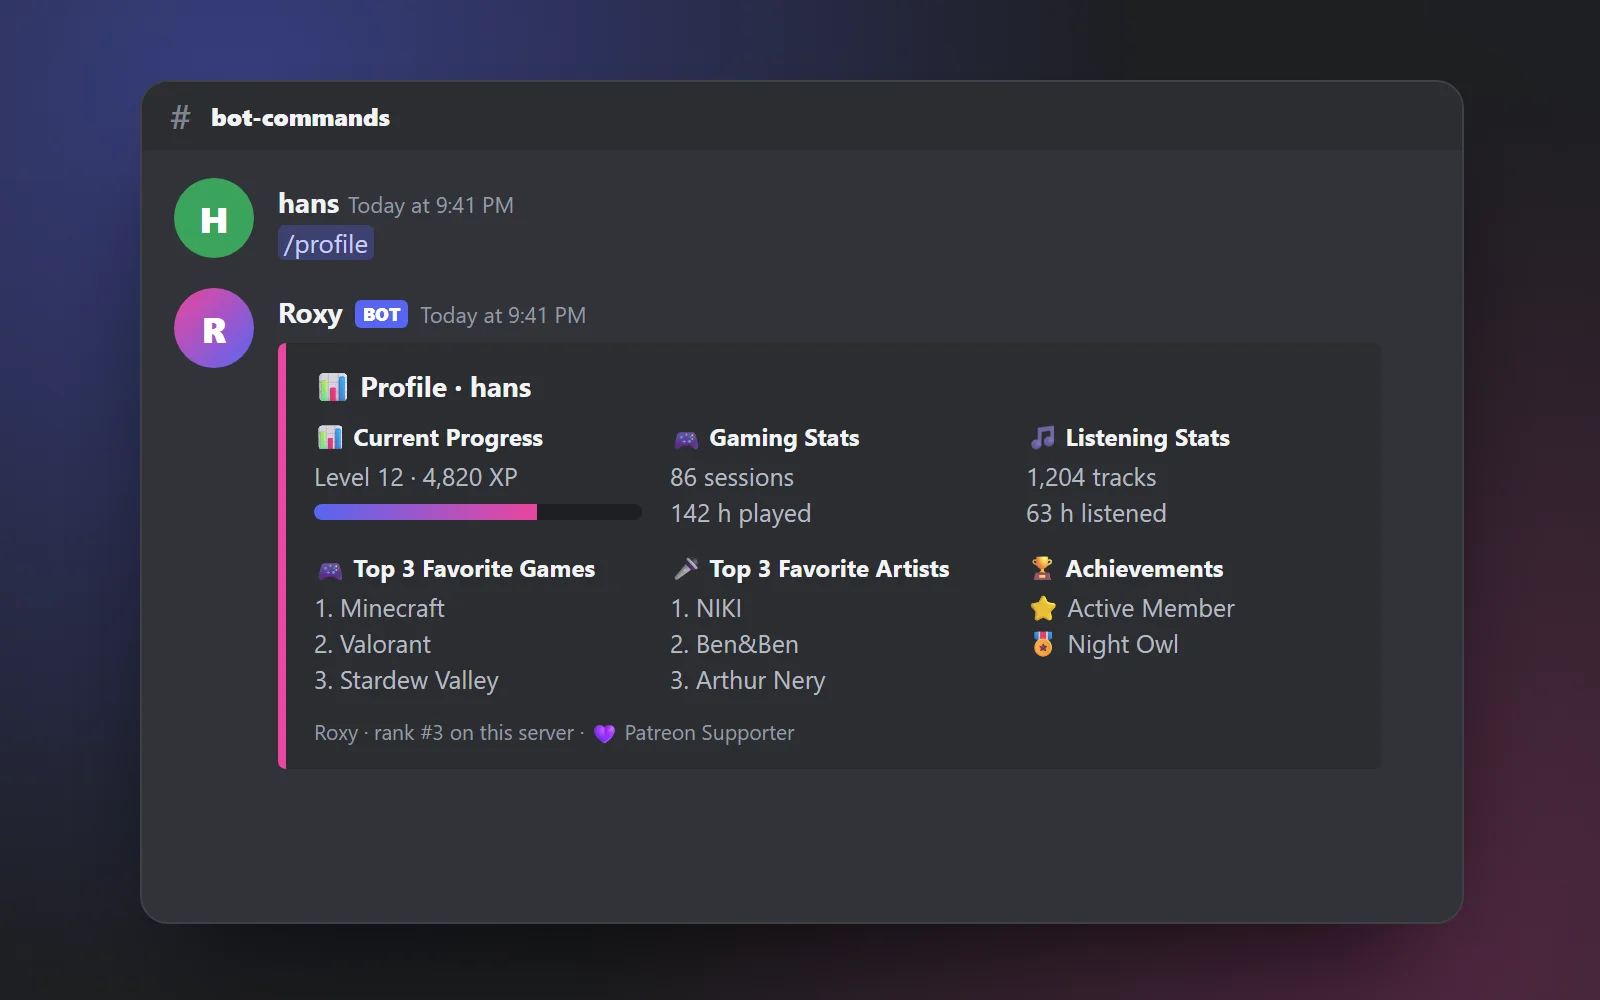
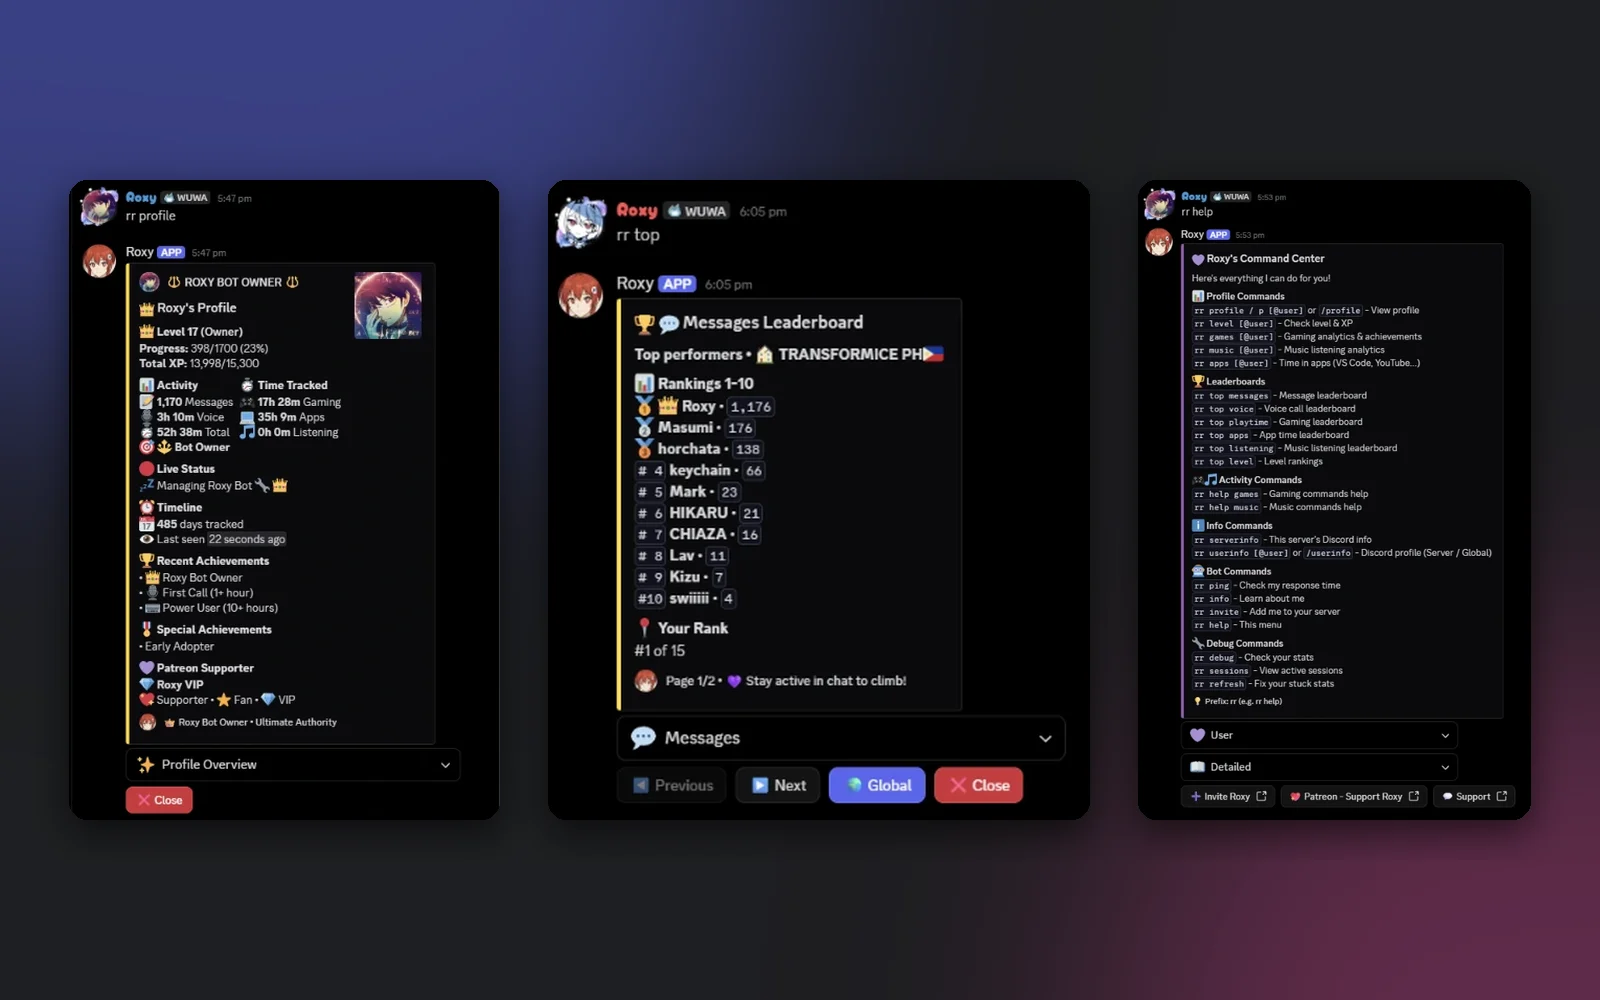
Update Roxy from the latest Roxy-Backup
Real screenshots (profile, leaderboard, help) replace the mockup, with a
three-up cover and a Screenshots (3) viewer. Live stats (23 servers,
1,600+ members, 21,000+ sessions), Jun 2025 - present, tools updated
(aiosqlite, openpyxl). Buttons: documentation -> Roxy-Backup/docs,
GitHub -> Roxy-Backup, and the case study is now linked. Chat
assistant facts updated.

diff --git a/chat-offline.js b/chat-offline.js
@@ -92,9 +92,9 @@
            tl: "- IONOS Philippines (Set 2025 – Peb 2026): Website Administration, nag-migrate ng mahigit 4,000 na website\n- Lifewood Data Technology (Ene – Abr 2025): IT Intern, web scraping at data work gamit ang AI",
            ceb: "- IONOS Philippines (Sep 2025 – Peb 2026): Website Administration, nag-migrate og kapin 4,000 ka website\n- Lifewood Data Technology (Ene – Abr 2025): IT Intern, web scraping ug data work gamit ang AI" } },
     { id: "projects", kw: ["project*", "proyekto", "capstone", "roxy", "discord", "built", "build", "made", "gihimo", "ginawa", "citu", "citsecure", "face", "recognition", "portfolio", "thesis"],
-      a: { en: "- Roxy (2025–2026, live): a Discord bot with XP, levels, leaderboards and gaming/Spotify stats\n- CITU-Secure (2024, school): a campus visitor management system; Hans built the backend\n- Real-Time Face Recognition (2023–2024, school): OpenCV + Python\n- Security labs: Splunk, Wireshark, Nmap and incident response\n- This portfolio, with the Ask about Hans AI\nSee the Projects page for all of them.",
-           tl: "- Roxy (2025–2026, live): Discord bot na may XP, levels, leaderboards at gaming/Spotify stats\n- CITU-Secure (2024, school): visitor management system para sa campus; si Hans ang gumawa ng backend\n- Real-Time Face Recognition (2023–2024, school): OpenCV + Python\n- Mga security lab: Splunk, Wireshark, Nmap at incident response\n- Itong portfolio, kasama ang Ask about Hans AI\nTingnan ang Projects page para sa lahat.",
-           ceb: "- Roxy (2025–2026, live): Discord bot nga adunay XP, levels, leaderboards ug gaming/Spotify stats\n- CITU-Secure (2024, school): visitor management system para sa campus; si Hans ang naghimo sa backend\n- Real-Time Face Recognition (2023–2024, school): OpenCV + Python\n- Mga security lab: Splunk, Wireshark, Nmap ug incident response\n- Kining portfolio, uban ang Ask about Hans AI\nTan-awa ang Projects page para sa tanan." } },
+      a: { en: "- Roxy (2025–present, live): a Discord stats bot with XP, levels and leaderboards, live in 23 servers with 1,600+ members\n- CITU-Secure (2024, school): a campus visitor management system; Hans built the backend\n- Real-Time Face Recognition (2023–2024, school): OpenCV + Python\n- Security labs: Splunk, Wireshark, Nmap and incident response\n- This portfolio, with the Ask about Hans AI\nSee the Projects page for all of them.",
+           tl: "- Roxy (2025–ngayon, live): Discord stats bot na may XP, levels at leaderboards, nasa 23 server na may 1,600+ miyembro\n- CITU-Secure (2024, school): visitor management system para sa campus; si Hans ang gumawa ng backend\n- Real-Time Face Recognition (2023–2024, school): OpenCV + Python\n- Mga security lab: Splunk, Wireshark, Nmap at incident response\n- Itong portfolio, kasama ang Ask about Hans AI\nTingnan ang Projects page para sa lahat.",
+           ceb: "- Roxy (2025–karon, live): Discord stats bot nga adunay XP, levels ug leaderboards, naa sa 23 ka server nga adunay 1,600+ ka miyembro\n- CITU-Secure (2024, school): visitor management system para sa campus; si Hans ang naghimo sa backend\n- Real-Time Face Recognition (2023–2024, school): OpenCV + Python\n- Mga security lab: Splunk, Wireshark, Nmap ug incident response\n- Kining portfolio, uban ang Ask about Hans AI\nTan-awa ang Projects page para sa tanan." } },
     { id: "security", w: 2, kw: ["security", "cybersecurity", "cyber*", "soc", "splunk", "wireshark", "nmap", "kali", "incident", "triage", "hack*", "labs", "lab", "seguridad", "mitre", "phishing", "honeypot"],
       a: { en: "Hans is training as a Tier 1 SOC analyst:\n- Splunk: a SOC dashboard, detections and a scheduled alert, plus alert triage\n- Wireshark: traffic analysis\n- Nmap on Kali Linux: enumeration and vulnerability scans\n- An incident report mapped to MITRE ATT&CK\nEach lab has screenshots and a full write-up on the Projects page.",
            tl: "Nagsasanay si Hans bilang Tier 1 SOC analyst:\n- Splunk: SOC dashboard, mga detection at scheduled alert, at alert triage\n- Wireshark: traffic analysis\n- Nmap sa Kali Linux: enumeration at vulnerability scans\n- Incident report na naka-map sa MITRE ATT&CK\nMay screenshots at buong write-up ang bawat lab sa Projects page.",

diff --git a/api/_knowledge.js b/api/_knowledge.js
@@ -24,7 +24,7 @@ export const KNOWLEDGE = `
   - Design and backend data entry for genealogy-focused web projects; managed large genealogy datasets.
 
 ## Projects
-- Roxy (project, Jun 2025 - Sep 2026, Hans's latest project, currently live): a Discord bot in Python (discord.py, SQLite via aiosqlite) that tracks members' gaming sessions, Spotify listening and message counts and turns them into XP, levels, server leaderboards, achievements and profile cards. It has slash commands (/profile, /userinfo), admin tools (backups, logs, Excel exports, system stats) and Patreon supporter perks. Code: https://github.com/LT1019/Roxy-Backup. Documentation (Privacy Policy and Terms of Service): https://github.com/LT1019/Roxy-Docs.
+- Roxy (Hans's latest project, Jun 2025 - present, live): a Discord stats bot in Python 3.13 (discord.py 2.5, SQLite via aiosqlite, openpyxl) that turns chat, voice, gaming, app and Spotify activity into XP, levels, profiles and leaderboards automatically. Live in 23 servers with 1,600+ members, 258 tracked users and 21,000+ recorded sessions. Highlights: fixed stuck sessions that had added tens of thousands of fake hours and removed 269 duplicates, then recalculated everyone's XP; an anti-spam XP system (fair voice XP only while talking with someone, 24-hour session cap); User / Server Admin / Owner permissions; message content is never stored; crash recovery, a single-instance lock and 24/7 auto-restart; interactive menus with 54 achievements. Code: https://github.com/LT1019/Roxy-Backup · Case study: https://github.com/LT1019/Roxy-Backup/blob/main/docs/CASE_STUDY.md · Privacy Policy and Terms: https://github.com/LT1019/Roxy-Docs
 - CITU-Secure (capstone, Jan 2024 - Dec 2024, Backend Developer): a visitor management system for the CIT-U campus that tracks each visitor's personal information, purpose of visit, and entry/exit times. Hans built the backend for visitor management and tracking.
 - Real-Time Face Recognition (2023 - 2024, Backend & Data Collection): OpenCV + Python system that identifies faces in live video. Hans built the backend and collected the training data that improved accuracy.
 

diff --git a/icons.js b/icons.js
@@ -50,6 +50,7 @@
     check: '<circle cx="12" cy="12" r="8.5"/><path d="m8 12.5 2.8 2.8L16.5 9.5"/>',
     cpu: '<rect x="6.5" y="6.5" width="11" height="11" rx="1.5"/><path d="M9.5 3v3.5M14.5 3v3.5M9.5 17.5V21M14.5 17.5V21M3 9.5h3.5M3 14.5h3.5M17.5 9.5H21M17.5 14.5H21"/>',
     eye: '<path d="M2.5 12S6 5.5 12 5.5 21.5 12 21.5 12 18 18.5 12 18.5 2.5 12 2.5 12z"/><circle cx="12" cy="12" r="3"/>',
+    document: '<path d="M14 3H7a2 2 0 0 0-2 2v14a2 2 0 0 0 2 2h10a2 2 0 0 0 2-2V8z"/><path d="M14 3v5h5M9 13h6M9 17h6"/>',
     building: '<path d="M4 21V5.5L12 3v18M12 8.5l8 2.5v10M3 21h18M7.5 8h1.5M7.5 12h1.5M7.5 16h1.5M15.5 14h1.5M15.5 17.5h1.5"/>',
     users: '<circle cx="9" cy="8" r="3.5"/><path d="M2.5 20a6.5 6.5 0 0 1 13 0M16 4.5a3.5 3.5 0 0 1 0 7M18.5 20a6.5 6.5 0 0 0-3-5.5"/>',
   };
@@ -61,7 +62,7 @@
     "photoshop": "tile:photoshop", "illustrator": "tile:illustrator", "ms office": "tile:msoffice",
     "splunk": "brand:splunk", "wireshark": "custom:wireshark", "nmap": "custom:nmap", "kali linux": "brand:kali linux",
     "fortinet nse 1–3": "brand:fortinet", "curl": "brand:curl", "virtualbox": "brand:virtualbox", "virustotal": "brand:virustotal",
-    "vercel": "brand:vercel", "claude api": "brand:claude", "ionos": "brand:ionos", "github": "brand:github", "n8n": "brand:n8n", "discord.py": "brand:discord", "discord": "brand:discord", "sqlite": "brand:sqlite", "patreon": "brand:patreon",
+    "vercel": "brand:vercel", "claude api": "brand:claude", "ionos": "brand:ionos", "github": "brand:github", "n8n": "brand:n8n", "discord.py": "brand:discord", "discord": "brand:discord", "sqlite": "brand:sqlite", "aiosqlite": "brand:sqlite", "openpyxl": "line:document", "patreon": "brand:patreon",
     "spring boot": "brand:spring boot", "docker": "brand:docker", "junit": "brand:junit", "maven": "brand:maven",
     "git / github": "brand:git", "hibernate": "brand:hibernate", "claude": "brand:claude",
     "web scraping": "line:scrape", "dns / ssl": "line:globe", "web hosting": "line:server", "imap / pop3": "line:mail",

diff --git a/data.js b/data.js
@@ -7,11 +7,12 @@
 window.PORTFOLIO = {
   projects: [
     {
-      id: "roxy", category: "project", status: "Live", start: "2025-06", end: "2026-09", dateLabel: "Jun 2025 – Sep 2026",
-      title: "Roxy", org: "Discord bot",
-      summary: "A Discord bot that tracks members' gaming sessions, Spotify listening and messages, and turns them into XP, levels, leaderboards, achievements and profile cards, with slash commands, admin tools, backups and Patreon supporter perks.",
-      tags: ["Python", "discord.py", "SQLite", "Patreon"],
-      image: "assets/projects/roxy.webp", doc: "https://github.com/LT1019/Roxy-Docs", github: "https://github.com/LT1019/Roxy-Backup"
+      id: "roxy", category: "project", status: "Live", start: "2025-06", end: "2026-10", dateLabel: "Jun 2025 – Present",
+      title: "Roxy", org: "Discord stats bot",
+      summary: "A Discord bot that turns chat, voice, gaming, app and Spotify activity into XP, levels, profiles and leaderboards, automatically. Live in 23 servers with 1,600+ members and 21,000+ recorded sessions, with an anti-spam XP system, role-based permissions and crash recovery.",
+      tags: ["Python", "discord.py", "SQLite", "aiosqlite", "openpyxl"],
+      image: "assets/projects/roxy.webp", gallery: { key: "roxy", start: 0 },
+      doc: "https://github.com/LT1019/Roxy-Backup/tree/main/docs", github: "https://github.com/LT1019/Roxy-Backup", caseStudy: "https://github.com/LT1019/Roxy-Backup/blob/main/docs/CASE_STUDY.md"
     },
     {
       id: "soc-dashboard", category: "project", start: "2026-09", dateLabel: "Sep 2026",

diff --git a/labs.js b/labs.js
@@ -1,7 +1,14 @@
 /* Image galleries for the Security and Certificates sections, opened by [data-gallery] buttons.
    A shot is either a caption (image at dir/NN.webp) or { src, cap }. */
 window.LAB_GALLERIES = {
-  wireshark: {
+  roxy: {
+    title: "Roxy · Discord stats bot",
+    shots: [
+      { src: "assets/projects/roxy/profile.webp", cap: "rr profile · level, activity, time tracked, live status and achievements" },
+      { src: "assets/projects/roxy/leaderboard.webp", cap: "rr top · messages leaderboard with category menu, pages and a Global toggle" },
+      { src: "assets/projects/roxy/help.webp", cap: "rr help · command center with page and view-mode menus and link buttons" }
+    ]
+  },  wireshark: {
     title: "Wireshark Lab Series",
     dir: "assets/labs/wireshark/",
     shots: [

diff --git a/style.css b/style.css
@@ -864,6 +864,7 @@ button.acard__media { cursor: zoom-in; }
 }
 .pcase:hover { border-color: color-mix(in srgb, var(--accent) 45%, var(--line)); box-shadow: var(--shadow-lg); }
 .pcase__media.acard__media img[src*="assets/projects/"] { object-position: center; }
+.acard__media img[src$="projects/roxy.webp"] { object-fit: contain; object-position: center; background: #1e1f22; }
 .pcase__media.acard__media { aspect-ratio: auto; height: 100%; min-height: 300px; border-bottom: 0; border-right: 1px solid var(--line); }
 .pcase__body { display: flex; flex-direction: column; padding: 24px 26px 26px; min-width: 0; }
 .pcase__top { display: flex; justify-content: space-between; align-items: center; gap: 12px; padding-bottom: 14px; margin-bottom: 16px; border-bottom: 1px solid var(--line); }
